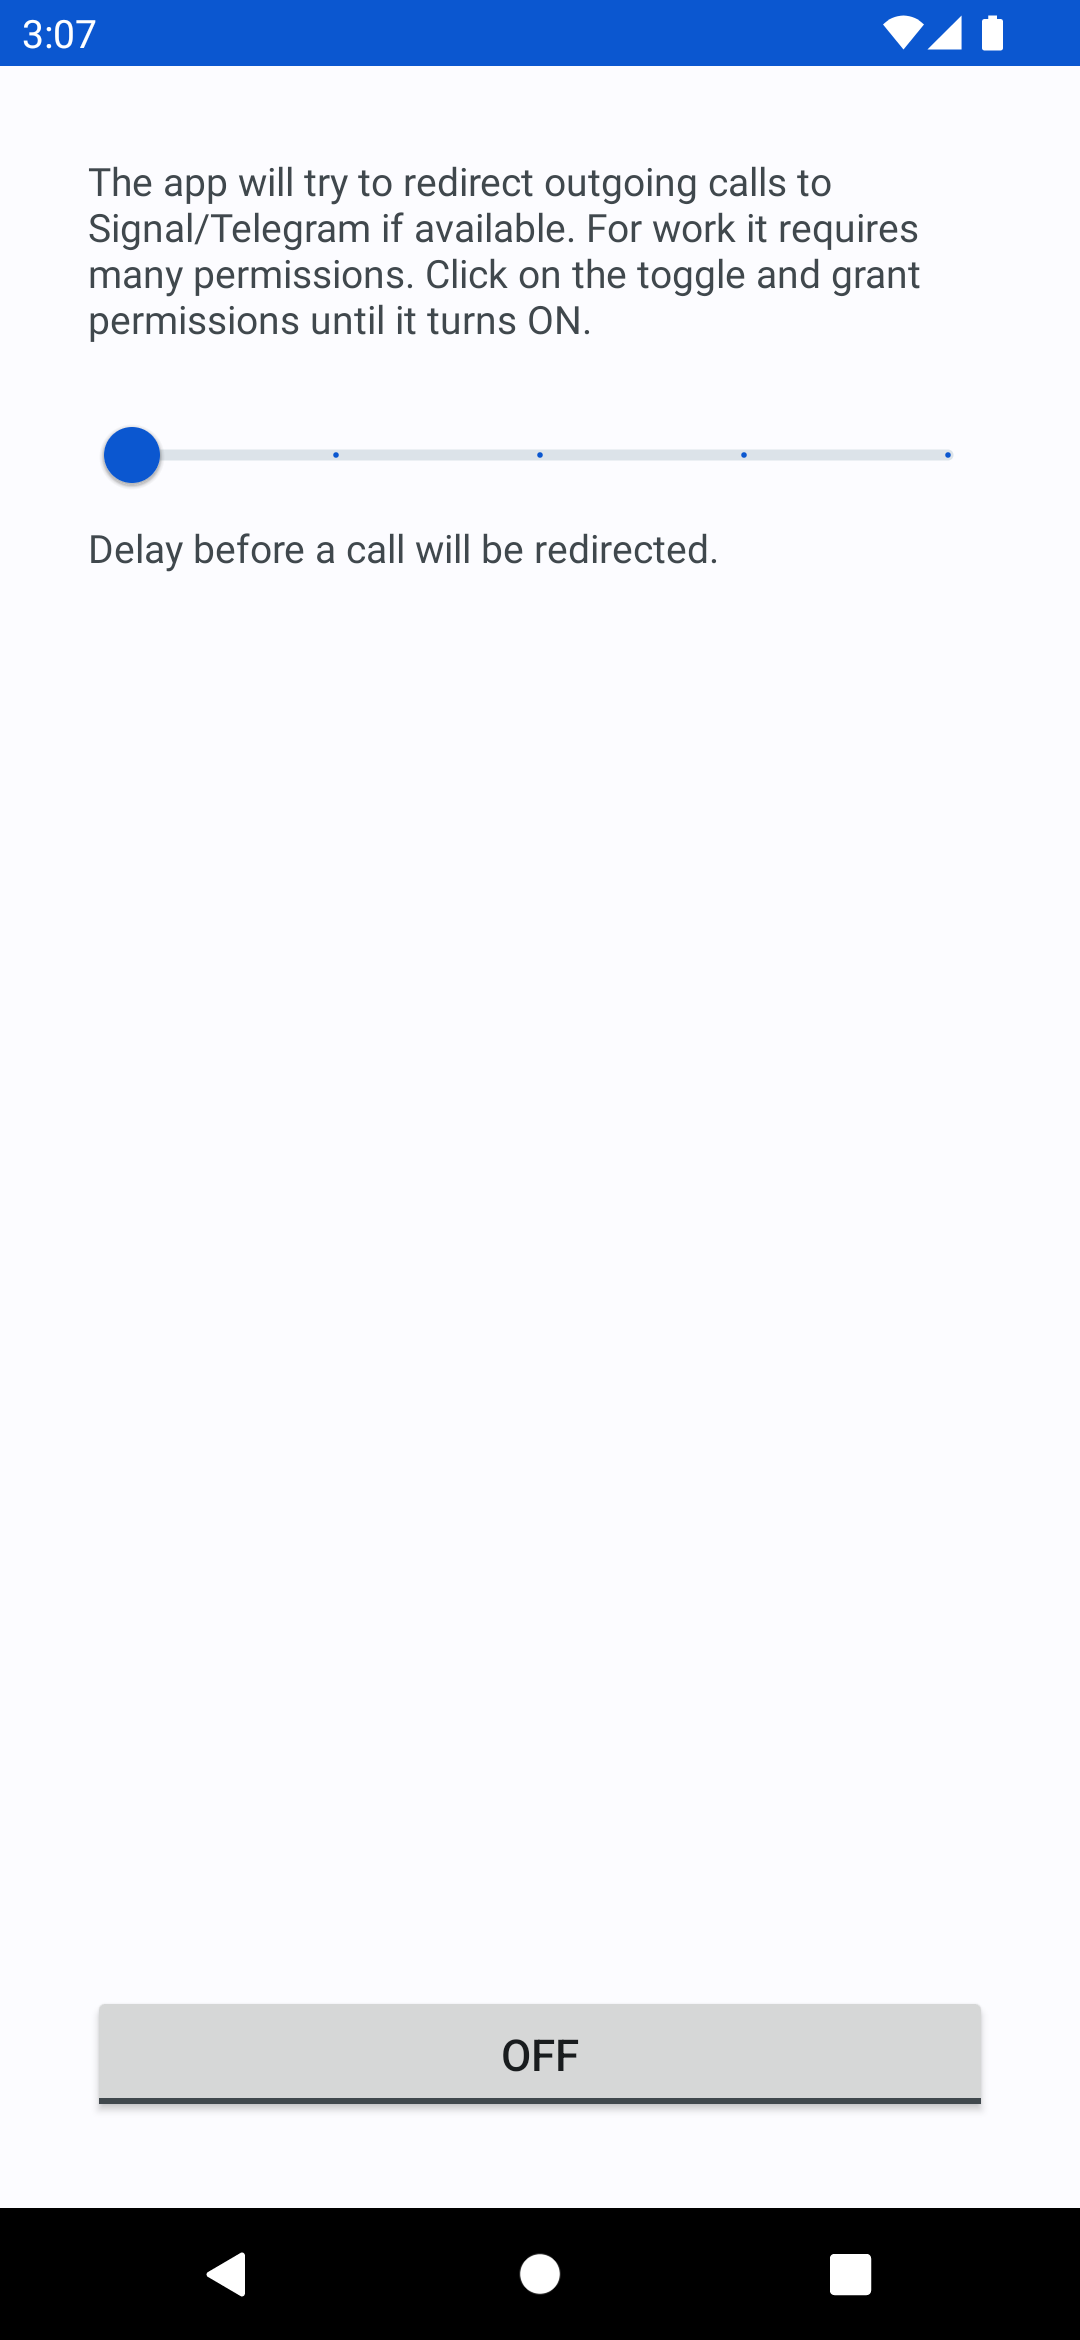
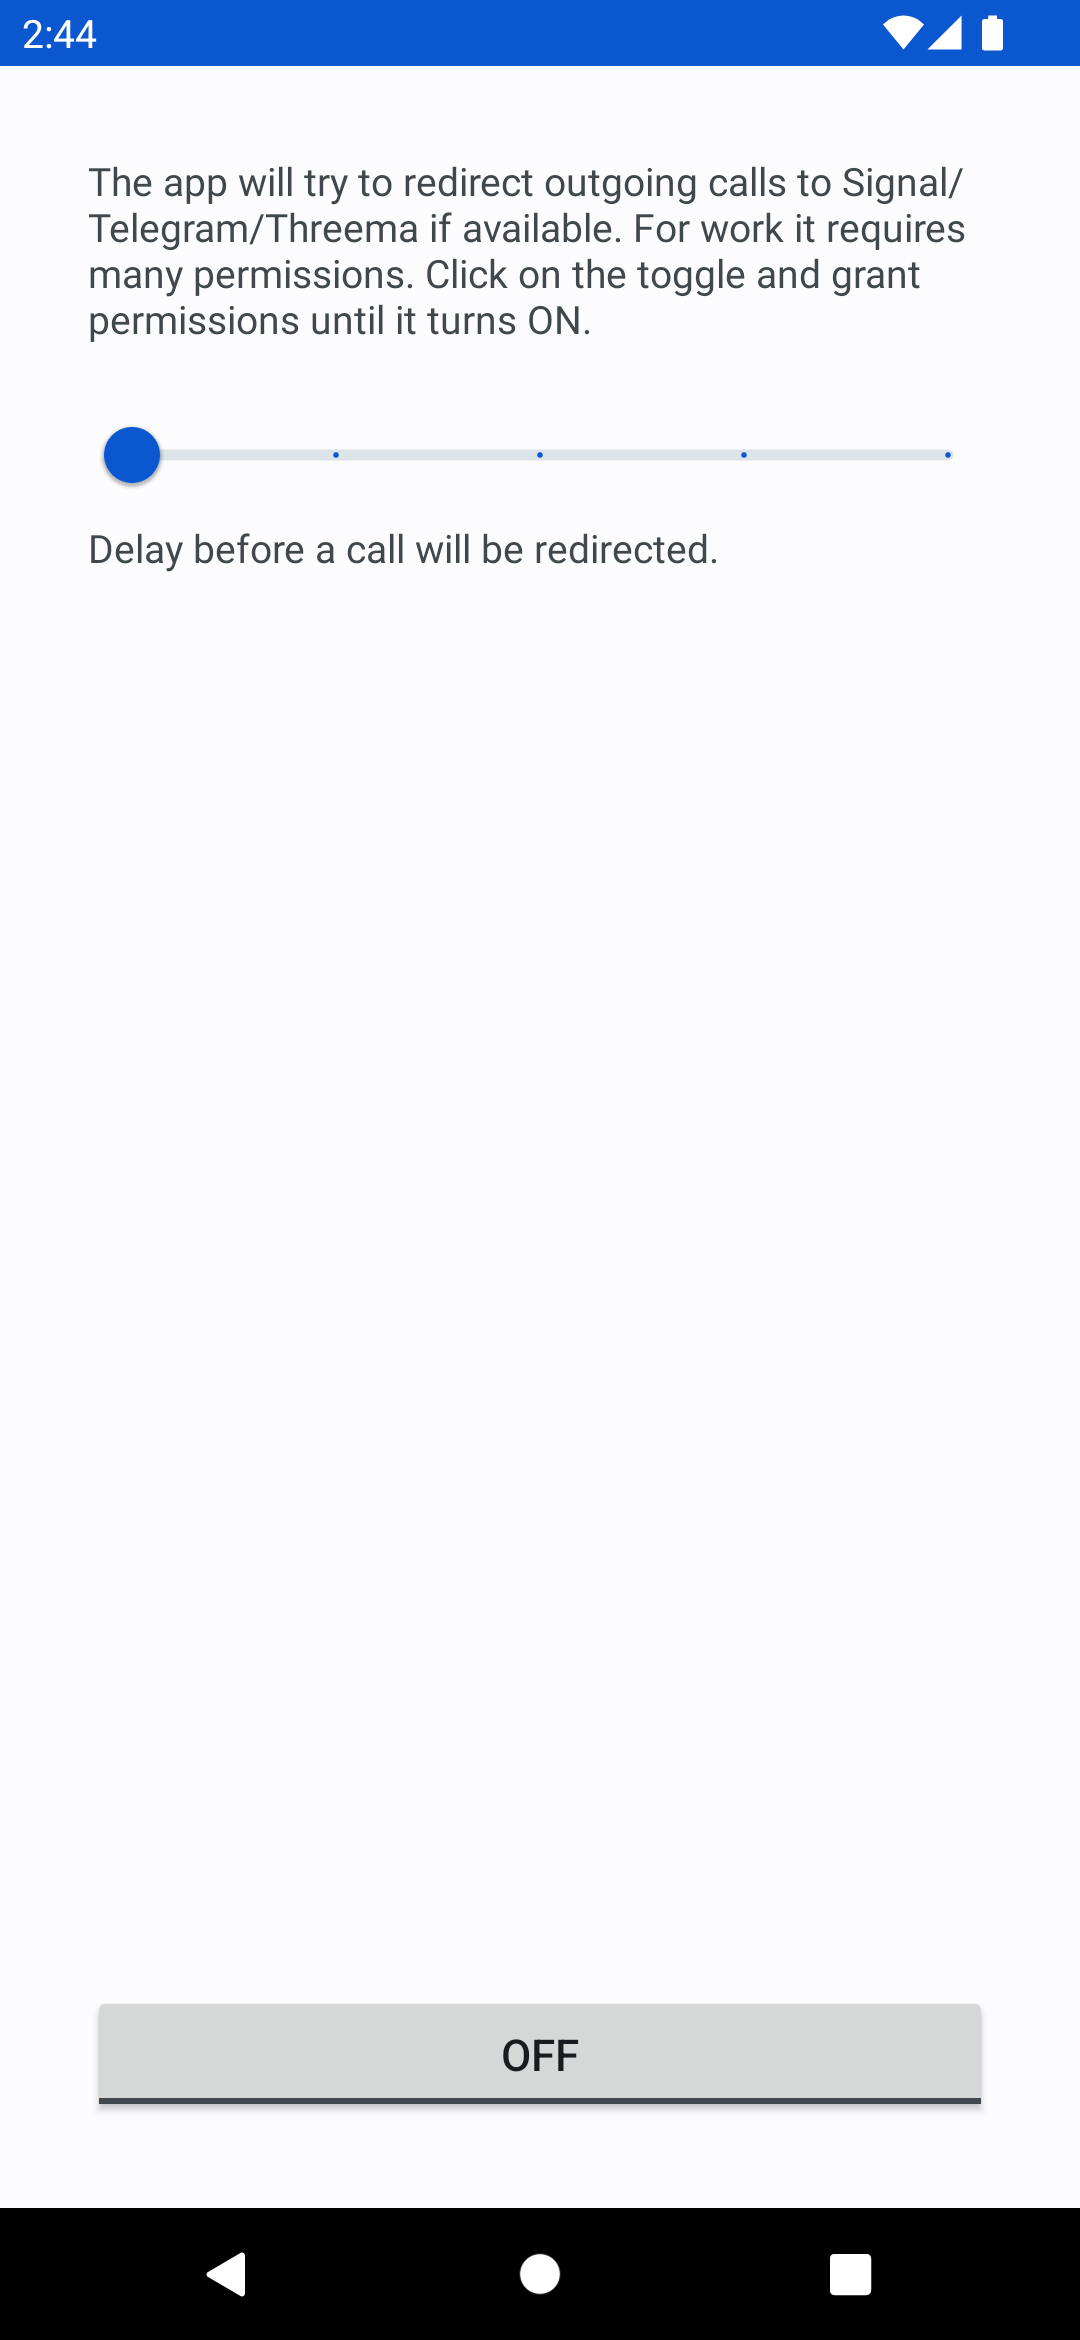
support Threema

Changed region(s): [[0.0917, 0.0624, 0.8861, 0.1248], [0.0306, 0.0, 0.0917, 0.0312]]

diff --git a/app/src/main/java/me/lucky/red/CallRedirectionService.kt b/app/src/main/java/me/lucky/red/CallRedirectionService.kt
@@ -15,9 +15,12 @@ class CallRedirectionService : CallRedirectionService() {
             "vnd.android.cursor.item/vnd.org.thoughtcrime.securesms.call"
         private const val TELEGRAM_MIMETYPE =
             "vnd.android.cursor.item/vnd.org.telegram.messenger.android.call"
+        private const val THREEMA_MIMETYPE =
+            "vnd.android.cursor.item/vnd.ch.threema.app.call"
         private val MIMETYPES = mapOf(
             SIGNAL_MIMETYPE to 0,
             TELEGRAM_MIMETYPE to 1,
+            THREEMA_MIMETYPE to 2,
         )
     }
 
@@ -63,8 +66,9 @@ class CallRedirectionService : CallRedirectionService() {
             return
         }
         window.show(record.uri, when (record.mimetype) {
-            SIGNAL_MIMETYPE -> R.string.signal
-            TELEGRAM_MIMETYPE -> R.string.telegram
+            SIGNAL_MIMETYPE -> R.string.destination_signal
+            TELEGRAM_MIMETYPE -> R.string.destination_telegram
+            THREEMA_MIMETYPE -> R.string.destination_threema
             else -> return
         })
     }

diff --git a/README.md b/README.md
@@ -1,6 +1,6 @@
 # Red
 
-Redirect outgoing calls to Signal/Telegram.
+Redirect outgoing calls to Signal/Telegram/Threema.
 
 [<img
      src="https://fdroid.gitlab.io/artwork/badge/get-it-on.png"
@@ -16,7 +16,7 @@ Redirect outgoing calls to Signal/Telegram.
      width="30%" 
      height="30%">
 
-Tiny app to redirect outgoing calls to Signal/Telegram if available.
+Tiny app to redirect outgoing calls to Signal/Telegram/Threema if available.
 
 You can cancel redirection by clicking on `Redirecting to..` popup.
 
